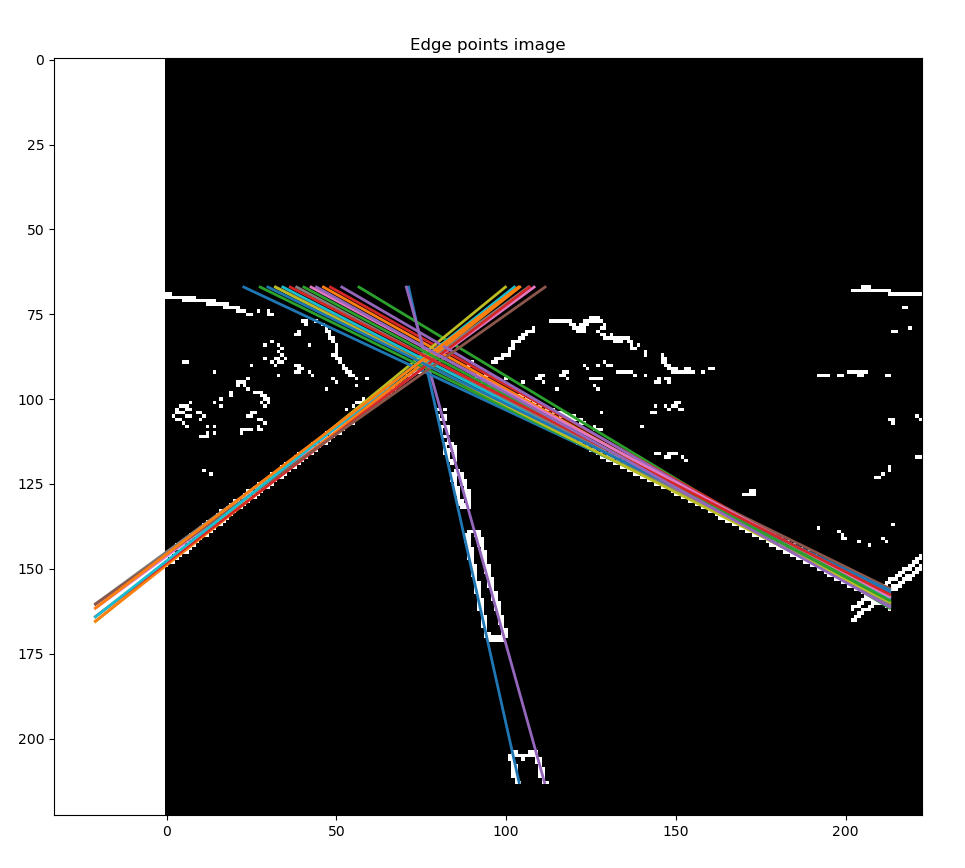
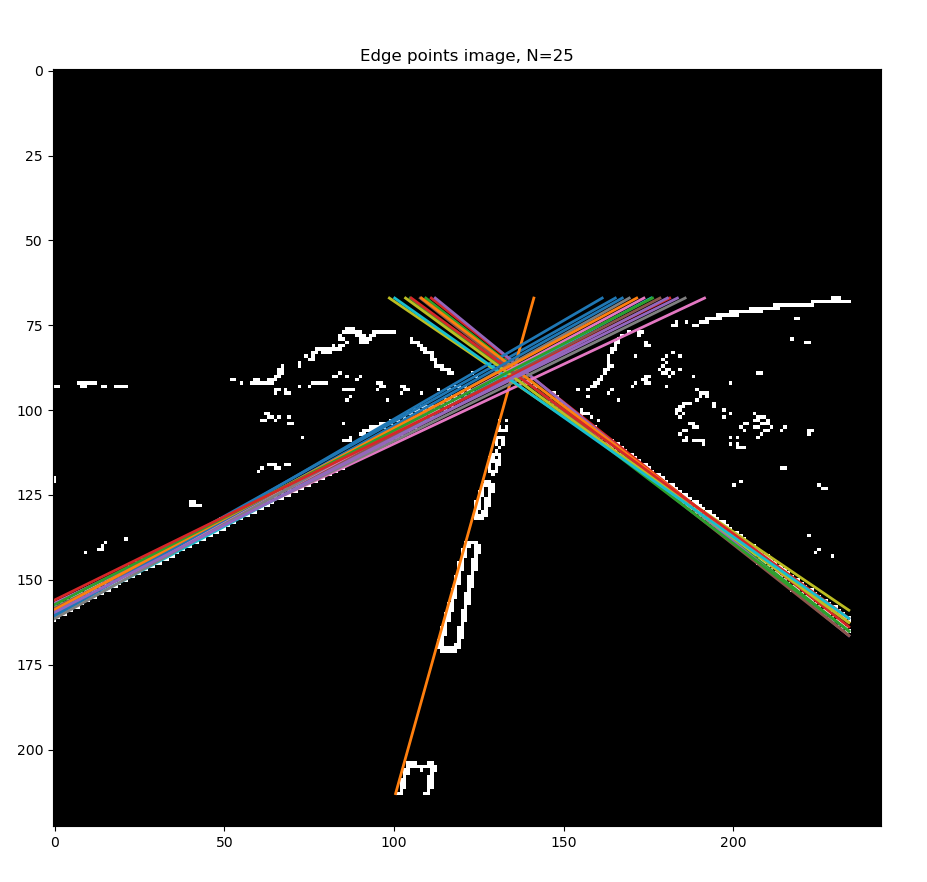
Horizontally flipped img array and modified example img

diff --git a/hough_line_detection_from_points.py b/hough_line_detection_from_points.py
@@ -21,11 +21,13 @@ from utils.np_img_utils import (
 img = load_img_as_np(Path("images/test_img_road.jpg"))
 edge_points = detect_edge_points(img)
 
-edge_points_rotated = rotate_points_ccw(edge_points, img.shape)
+edge_points_rotated = np.fliplr(edge_points)
+# edge_points_rotated = rotate_points_ccw(edge_points, img.shape)
+
 
 img = get_edge_marked_img(edge_points_rotated)
 
-plot_image(img, title="Edge points image", cmap="gray")
+# plot_image(img, title="Edge points image", cmap="gray")
 
 
 def hough_transform(points, theta_steps=180, rho_resolution=1):
@@ -128,6 +130,7 @@ clamped_hough_lines = get_hough_lines_clamped(edge_points_rotated, rhos, thetas,
 
 
 # plot_lines(rhos, thetas, rho_idx, theta_idx, img)
+plot_image(img, title=f"Edge points image, {N=}", cmap="gray")
 plot_clamed_lines(clamped_hough_lines)
 plt.show()
 
